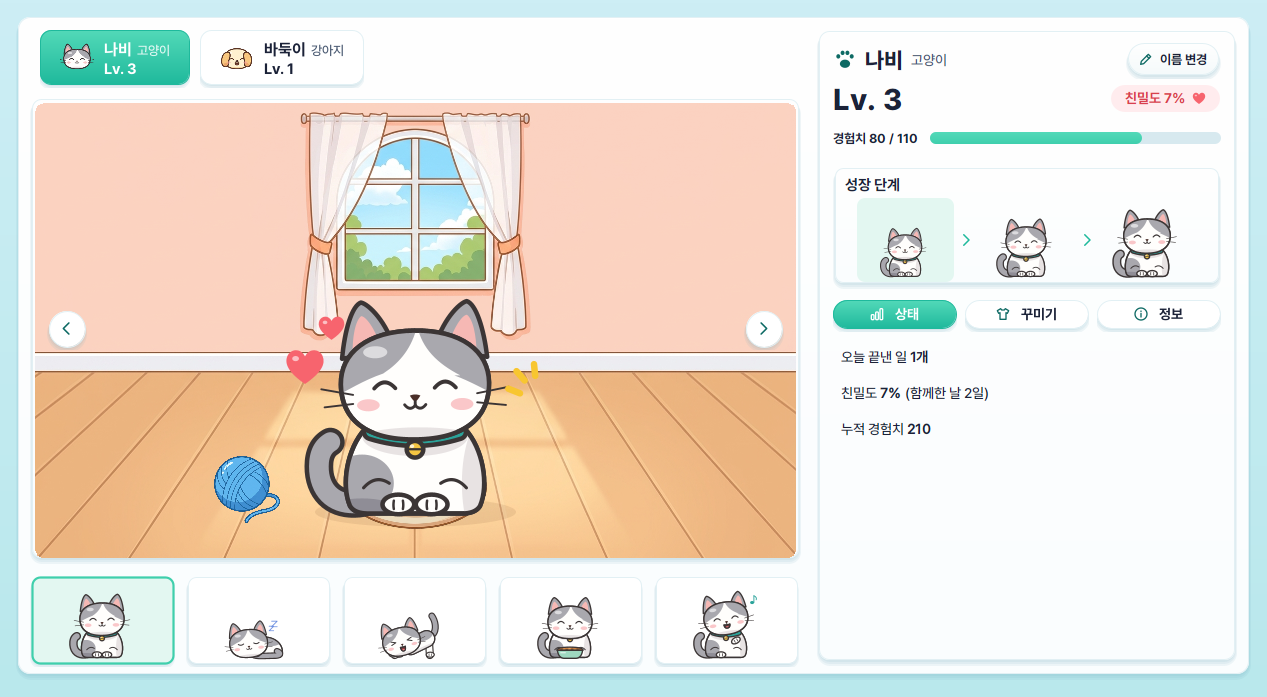
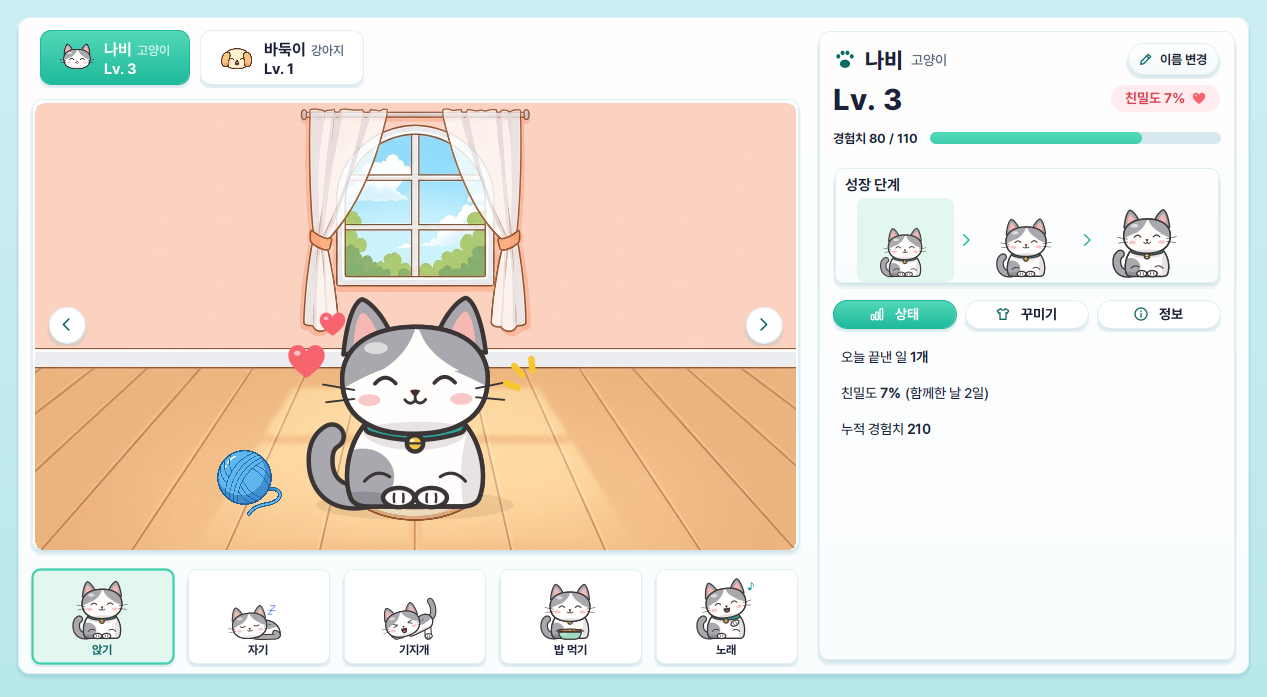
feat(pet): 캐릭터 창 자세 칸에 이름을 늘 적기 (#197)
D-84: 자세 칸은 그림 아래에 앉기, 자기, 기지개, 밥 먹기, 노래를 늘 적고, 고른 칸은 민트 테두리와 바탕에 이름을 `ICON` 색으로 보인다.
칸 높이를 92에서 100으로 늘렸다. 05, 디자인 시스템, 화면 캡처를 고치고 검사 "D-84 자세 칸은 이름을 늘 적고 고른 칸을 보인다"를 더했다.

diff --git a/prototype/src/planningpet/pet/view/CharacterScreen.java b/prototype/src/planningpet/pet/view/CharacterScreen.java
@@ -97,7 +97,7 @@ public final class CharacterScreen extends JPanel {
         roomCard.setBorder(BorderFactory.createEmptyBorder(5, 5, 7, 5));
         roomCard.add(stageView);
         col.add(roomCard, BorderLayout.CENTER);
-        poses.setPreferredSize(new Dimension(0, 92));
+        poses.setPreferredSize(new Dimension(0, 100));
         col.add(poses, BorderLayout.SOUTH);
         return col;
     }
@@ -401,7 +401,7 @@ public final class CharacterScreen extends JPanel {
         };
     }
 
-    /** 자세 칸 하나. 고른 자세는 민트 테두리다. 누르면 바로 바뀐다(D-50). */
+    /** 자세 칸 하나. 그림 아래에 이름을 늘 적고 고른 자세는 민트 테두리다(D-84). 누르면 바로 바뀐다(D-50). */
     private JComponent poseCard(PetState p, String pose) {
         JToggleButton b = new JToggleButton(pose, pose.equals(p.pose)) {
             @Override
@@ -417,8 +417,14 @@ public final class CharacterScreen extends JPanel {
                 g.setColor(isSelected() ? Theme.MINT : Theme.CARD_EDGE);
                 g.setStroke(new java.awt.BasicStroke(isSelected() ? 2.2f : 1f));
                 g.drawRoundRect(2, 2, w, h, 16, 16);
-                int size = Math.min(w, h) - 14;
-                Pet.drawStage(g, p.kind, pose, p.wear, 3, 2 + w / 2, h - 4, size);
+                g.setRenderingHint(RenderingHints.KEY_TEXT_ANTIALIASING, RenderingHints.VALUE_TEXT_ANTIALIAS_ON);
+                g.setFont(Theme.bold(12));
+                java.awt.FontMetrics fm = g.getFontMetrics();
+                int label = fm.getHeight() + 8;
+                int size = Math.min(w - 8, h - label - 6);
+                Pet.drawStage(g, p.kind, pose, p.wear, 3, 2 + w / 2, h - label, size);
+                g.setColor(isSelected() ? Theme.ICON : Theme.INK);
+                g.drawString(pose, 2 + (w - fm.stringWidth(pose)) / 2, h - 4 - fm.getDescent());
                 g.dispose();
             }
         };

diff --git a/prototype/check/planningpet/check/ProtoCheck.java b/prototype/check/planningpet/check/ProtoCheck.java
@@ -424,6 +424,14 @@ public final class ProtoCheck {
         eq("D-93 캐릭터 창은 늘 상태 탭으로 열린다", "상태", cr.character.tab());
         cr.character.nextPet.doClick();
         eq("D-80 캐릭터 창 화살표는 펫을 바꾼다", "DOG " + ca.store.pet("CAT").pose, ca.store.activeKind + " " + ca.store.pet("CAT").pose);
+        ca.pet.pose("DOG", "기지개");
+        StringBuilder poseCells = new StringBuilder();
+        for (javax.swing.JToggleButton b : all(cr.character, javax.swing.JToggleButton.class)) {
+            if (Poses.ALL.contains(b.getText())) {
+                poseCells.append(b.getText()).append(b.isSelected() ? "(고름) " : " ");
+            }
+        }
+        eq("D-84 자세 칸은 이름을 늘 적고 고른 칸을 보인다", "앉기 자기 기지개(고름) 밥 먹기 노래 ", poseCells.toString());
         App one = Main.create(MockData.sample());
         planningpet.pet.view.PetScreen oneRoom = find(one.root, planningpet.pet.view.PetScreen.class);
         oneRoom.character.opened(false);

diff --git a/docs/05-ui-design.md b/docs/05-ui-design.md
@@ -173,7 +173,7 @@
 - 창은 늘 상태 탭으로 열린다. 지난번에 본 탭과 관계없고 처음 열 때도 같다. 장신구 칸이나 "{이름} 꾸미기"로 열면 꾸미기 탭으로 열린다(D-83, D-93). 열 때마다 입혀 보는 장신구는 고른 펫의 저장된 장신구에서 시작한다.
 - **왼쪽**: 위에 펫 탭(얼굴, 이름과 그 옆 작은 종류, 둘째 줄 "Lv. {레벨}", 펫마다 하나, D-81), 가운데 방 그림 위의 큰 펫, 아래 자세 다섯 칸이다.
   - 큰 펫은 고른 자세로, 꾸미기 탭에서 입혀 보는 중인 장신구를 입고 그린다(D-51). 옆에 하트와 강조선, 발밑에 러그와 털실 공이 있다. 양옆 화살표는 고른 펫을 앞이나 다음 펫으로 바꾼다(D-80). 자세는 아래 자세 칸에서 고른다. 펫이 하나면 두 화살표가 흐리다.
-  - 자세 칸은 앉기, 자기, 기지개, 밥 먹기, 노래 순이고 그 자세의 3단계 펫 그림이다. 고른 자세는 민트 테두리다(D-50).
+  - 자세 칸은 앉기, 자기, 기지개, 밥 먹기, 노래 순이고 그 자세의 3단계 펫 그림 아래에 자세 이름을 늘 적는다. 고른 자세는 민트 바탕과 민트 테두리다(D-50, D-84).
 - **오른쪽**: 위에 발자국과 이름과 그 옆 작은 종류(D-81), "이름 변경" 버튼, "Lv. 3"과 분홍 알약 "친밀도 {퍼센트}%"(06의 27번), "경험치 80 / 110"과 막대가 있다. 친밀도에 마우스를 올리면 "경험치를 받은 날이 30일이면 100%예요. 쉬어도 줄지 않아요"를 보인다(D-49).
   - 성장 단계: 같은 그림의 세 크기(0.72배, 0.86배, 1배)를 화살표로 잇고 지금 단계에 `MINT_PALE` 바탕을 깐다(D-50). 마우스를 올리면 "레벨 1~3, 4~6, 7~10에서 자라요"를 보인다.
   - 상태, 꾸미기, 정보 탭이 있고 열 때마다 상태 탭이다(D-93). 상태는 "오늘 끝낸 일 {수}개", "친밀도 {퍼센트}% (함께한 날 {날 수}일)", "누적 경험치 {경험치}"(D-56). 정보는 종류, 이름, 자세, 입은 장신구(없으면 "없음")다.
@@ -185,7 +185,7 @@
 | 번호 | 이름 | 부품 | 형식과 범위 | 오류 처리 |
 |---|---|---|---|---|
 | 1 | 펫 탭 | `JToggleButton`(`Pill`) 묶음 | 펫마다 하나. 누르면 그 펫을 고른다(UC-21) | 저장에 실패하면 되돌리고 저장 실패 창을 띄운다 |
-| 2 | 자세 칸 | `JToggleButton` 다섯 | 앉기, 자기, 기지개, 밥 먹기, 노래. 처음은 앉기. 누르면 바로 저장한다 | 저장에 실패하면 자세를 되돌리고 저장 실패 창을 띄운다 |
+| 2 | 자세 칸 | `JToggleButton` 다섯 | 앉기, 자기, 기지개, 밥 먹기, 노래. 그림 아래에 이름을 늘 적는다(D-84). 처음은 앉기. 누르면 바로 저장하고 고른 칸은 테두리로 보인다 | 저장에 실패하면 자세를 되돌리고 저장 실패 창을 띄운다 |
 | 3 | 앞 펫, 다음 펫 | 큰 그림 양옆 원 `JButton` | 펫 순서(고양이, 강아지)대로 고른 펫을 바꾸고 끝에서 처음으로 돈다(UC-21, D-80, 06의 30번 `step`) | 펫이 하나면 흐리다. 입혀 본 장신구가 있으면 먼저 꾸미기 적용 확인 창으로 묻고 취소면 바꾸지 않는다. 저장에 실패하면 되돌리고 저장 실패 창을 띄운다 |
 | 4 | 이름 변경 | `JButton` | 이름 변경 창을 연다(UC-23, D-57) | 없음 |
 | 5 | 상태, 꾸미기, 정보 | `JToggleButton`(`Pill`) 묶음 | 열 때마다 상태. 장신구 칸이나 "{이름} 꾸미기"로 열면 꾸미기(D-93) | 없음 |

diff --git a/docs/design-system.md b/docs/design-system.md
@@ -184,7 +184,7 @@
 
 - 창 제목은 "캐릭터"이고 운영체제 창 틀을 쓴다. 크기는 메인 창의 폭 0.88배, 높이 0.86배이고 860x560보다 작아지지 않으며, 메인 창 가운데에 뜬다. 바탕은 본문 판과 같은 `BG_TOP`에서 `BG_BOTTOM`으로 가는 그라데이션이고 안쪽 여백은 16이다.
 - 큰 카드(모서리 24, 안쪽 여백 14) 하나에 왼쪽 열과 오른쪽 카드(폭 420, 모서리 20)다.
-- 왼쪽 열: 위에 펫 탭(폭 200 이상, 높이 58, 얼굴, 이름 굵은 16과 옆 작은 종류 13, 둘째 줄 "Lv. 3" 굵은 15), 가운데 방 카드(모서리 18) 위의 큰 펫(칸 폭의 0.62배와 높이의 0.74배 가운데 작은 쪽)과 발밑 러그, 털실 공, 옆의 하트 둘과 강조선, 양옆 펫 화살표 원 버튼 40(펫이 하나면 비활성, D-80). 아래 자세 다섯 칸(높이 92, 모서리 16, 고른 칸은 `MINT_PALE` 바탕과 `MINT` 테두리 2.2).
+- 왼쪽 열: 위에 펫 탭(폭 200 이상, 높이 58, 얼굴, 이름 굵은 16과 옆 작은 종류 13, 둘째 줄 "Lv. 3" 굵은 15), 가운데 방 카드(모서리 18) 위의 큰 펫(칸 폭의 0.62배와 높이의 0.74배 가운데 작은 쪽)과 발밑 러그, 털실 공, 옆의 하트 둘과 강조선, 양옆 펫 화살표 원 버튼 40(펫이 하나면 비활성, D-80). 아래 자세 다섯 칸(높이 100, 모서리 16, 그림 아래 자세 이름 굵은 12, 고른 칸은 `MINT_PALE` 바탕과 `MINT` 테두리 2.2와 `ICON` 색 이름, D-84).
 - 오른쪽 카드: 발자국 24와 이름(아주 굵은 22)과 옆 작은 종류(14, `INK_SUB`), 오른쪽 "이름 변경"(굵은 13, 연필 아이콘). "Lv. 3"(아주 굵은 30)과 오른쪽 친밀도 알약(`#FFECEE` 바탕, `#D8414E` 굵은 14, 하트 16). "경험치 80 / 110"(굵은 13)과 막대(높이 12). 성장 단계 카드(모서리 16, 제목 굵은 15, 높이 84, 지금 단계 칸에 `MINT_PALE` 바탕). 상태, 꾸미기, 정보 탭(14). 꾸미기 탭은 왼쪽 칸 목록(폭 112, 굵은 13, 메뉴 모양)과 오른쪽 장신구 카드 줄(높이 116, 넷). 맨 아래 "꾸미기 적용"(주 행동, 굵은 16, 흰 발자국 20, 좌우 여백 60).
 - 장신구 카드: 열린 카드는 그림과 이름(굵은 12), 안 열린 카드는 `#EEF2F5` 바탕에 자물쇠와 "Lv.{레벨} 해금"(`INK_SUB`), 입혀 보는 카드는 `MINT_PALE` 바탕, `MINT` 테두리 2.2, 체크 배지.
 
